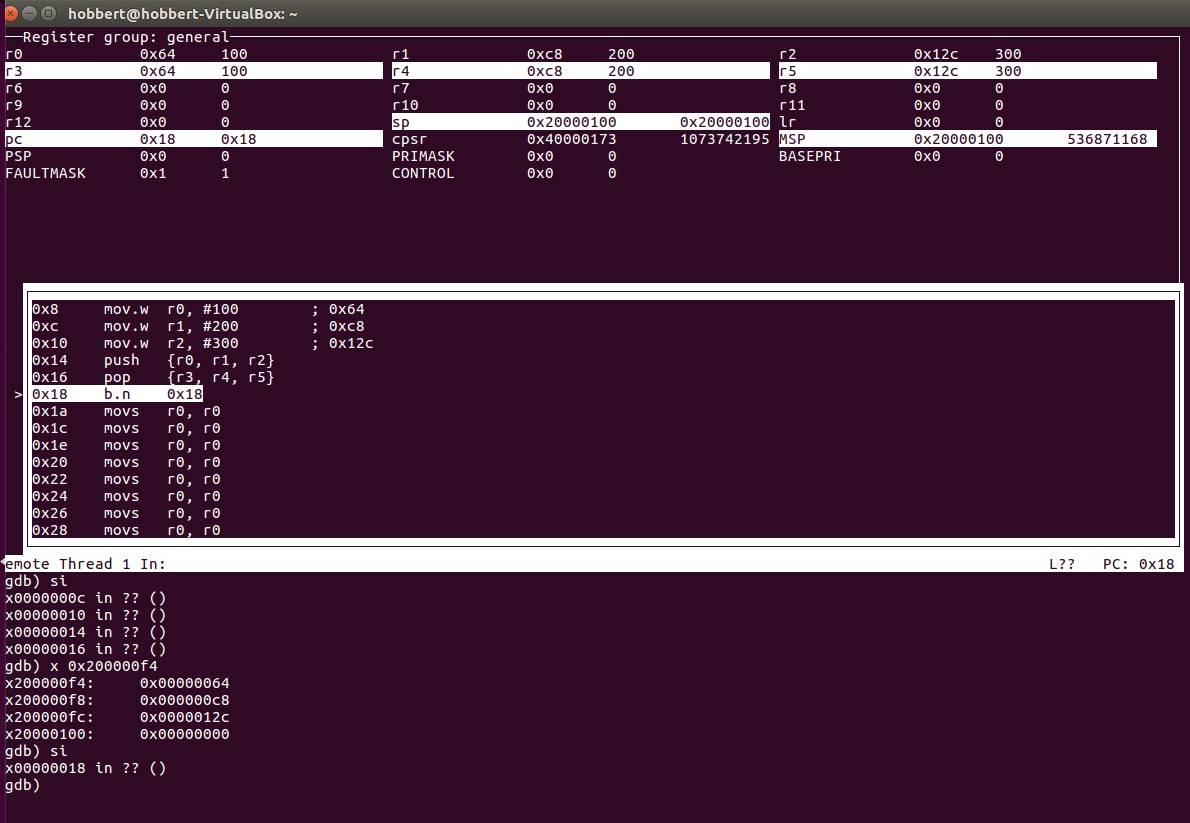
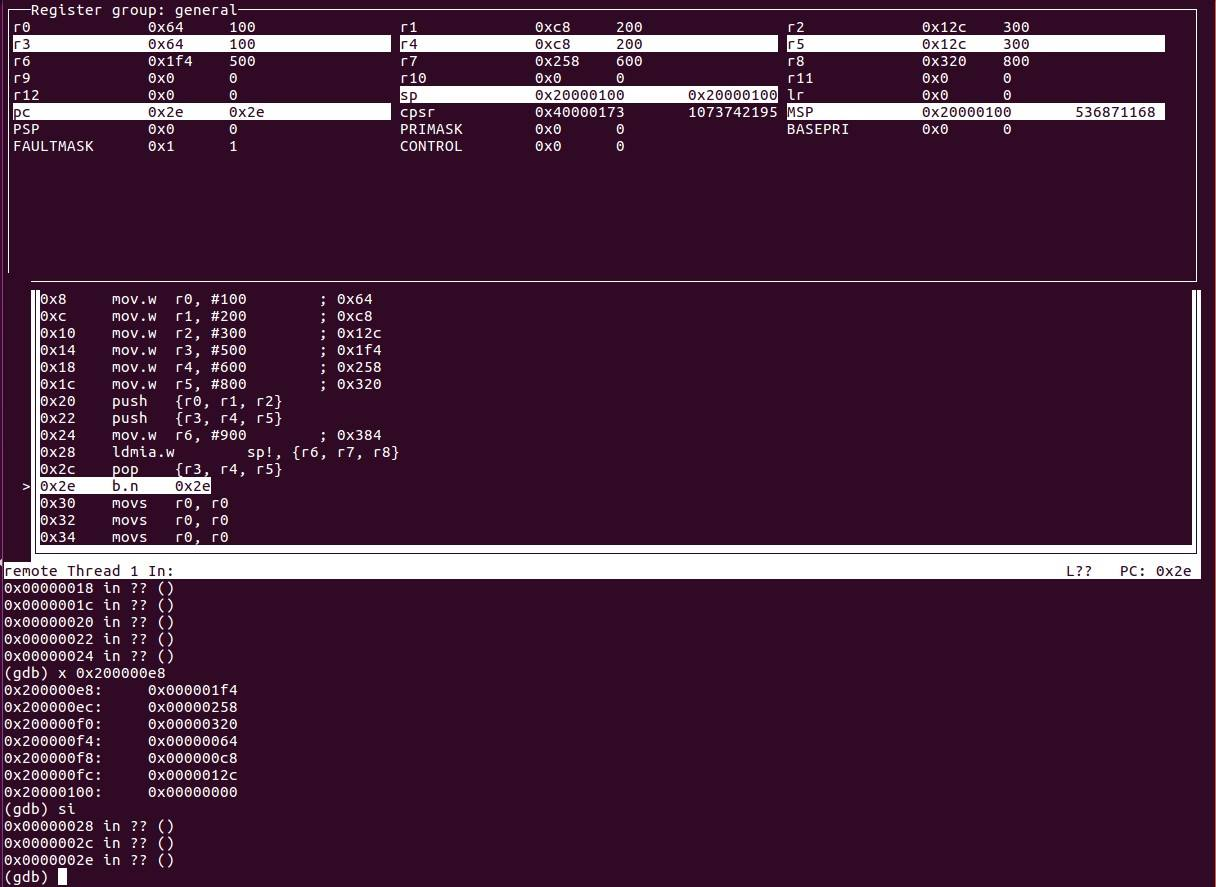
change last

Changed region(s): [[0.0, 0.0, 1.0, 1.0], [0.2487, 0.486, 0.342, 0.5164]]

diff --git a/readme.md b/readme.md
@@ -5,9 +5,9 @@
 ## 2. 實驗步驟
 1. 先將資料夾 gnu-mcu-eclipse-qemu 完整複製到 ESEmbedded_HW02 資料夾中
 
-2. 根據題目要求設計程式，觀察pop {r0,r1,r2} 與 push{r3,r4,r5}對堆疊記憶體的順序。
+2. 根據題目要求設計程式，觀察push {r0,r1,r2} 與 push{r5,r4,r3}對堆疊記憶體的順序是否有差別。
 
-3. 設計測試程式` main.s `，從` _start `開始後依序執行pop` {r0,r1,r2} `以及` push{r3,r4,r5}`
+3. 設計測試程式` main.s `，從` _start `開始後依序執行pop` `以及` push`
 
 4. 先將數值存入register方便觀察
 
@@ -19,9 +19,15 @@ _start:
 	mov	r0,#100
 	mov	r1,#200
 	mov	r2,#300
+	mov	r3,#500
+	mov	r4,#600
+	mov	r5,#800
 	//
 	push	{r0,r1,r2}
-	pop	{r3,r4,r5} 
+	push	{r5,r4,r3}
+	mov	r6,#900
+	pop	{r6,r7,r8}
+	pop	{r5,r4,r3}
 	b	.
 ```
 
@@ -29,18 +35,18 @@ _start:
 記得要開啟另一 Terminal 連線 `$ arm-none-eabi-gdb` ，再輸入 `target remote localhost:1234` 連接，輸入 `layout regs`, 開啟 Register 以及指令，並且輸入 `si` 一步步執行觀察。
 
 
-當執行`push`完由下圖可以看出堆疊為先r2再r1再r0(sp依其遞減)
+當執行`push`完由下圖可以看出堆疊為由register大的先存入
 
 ![](https://github.com/pohsaung/ESEmbedded_HW02/blob/master/push1.jpg)
 
-當執行到`pop`完由下圖可以看出先r3再r4再r5(sp依其遞加)
+當執行到`pop`完由下圖可以看出由register大的先存入
 
 ![](https://github.com/pohsaung/ESEmbedded_HW02/blob/master/pop1.jpg)
 
 ## 3. 結果與討論
  1. 由上方實驗可以看出`push`和`pop`sp的增減方向相反，也就是FILO
 
- 2. 另外也發現pop完存入的數值依然存在著，並不會隨著pop出去而消失
+ 2. `push`和`pop`"{}"中的順序並不影響堆疊次序
 
 
 
